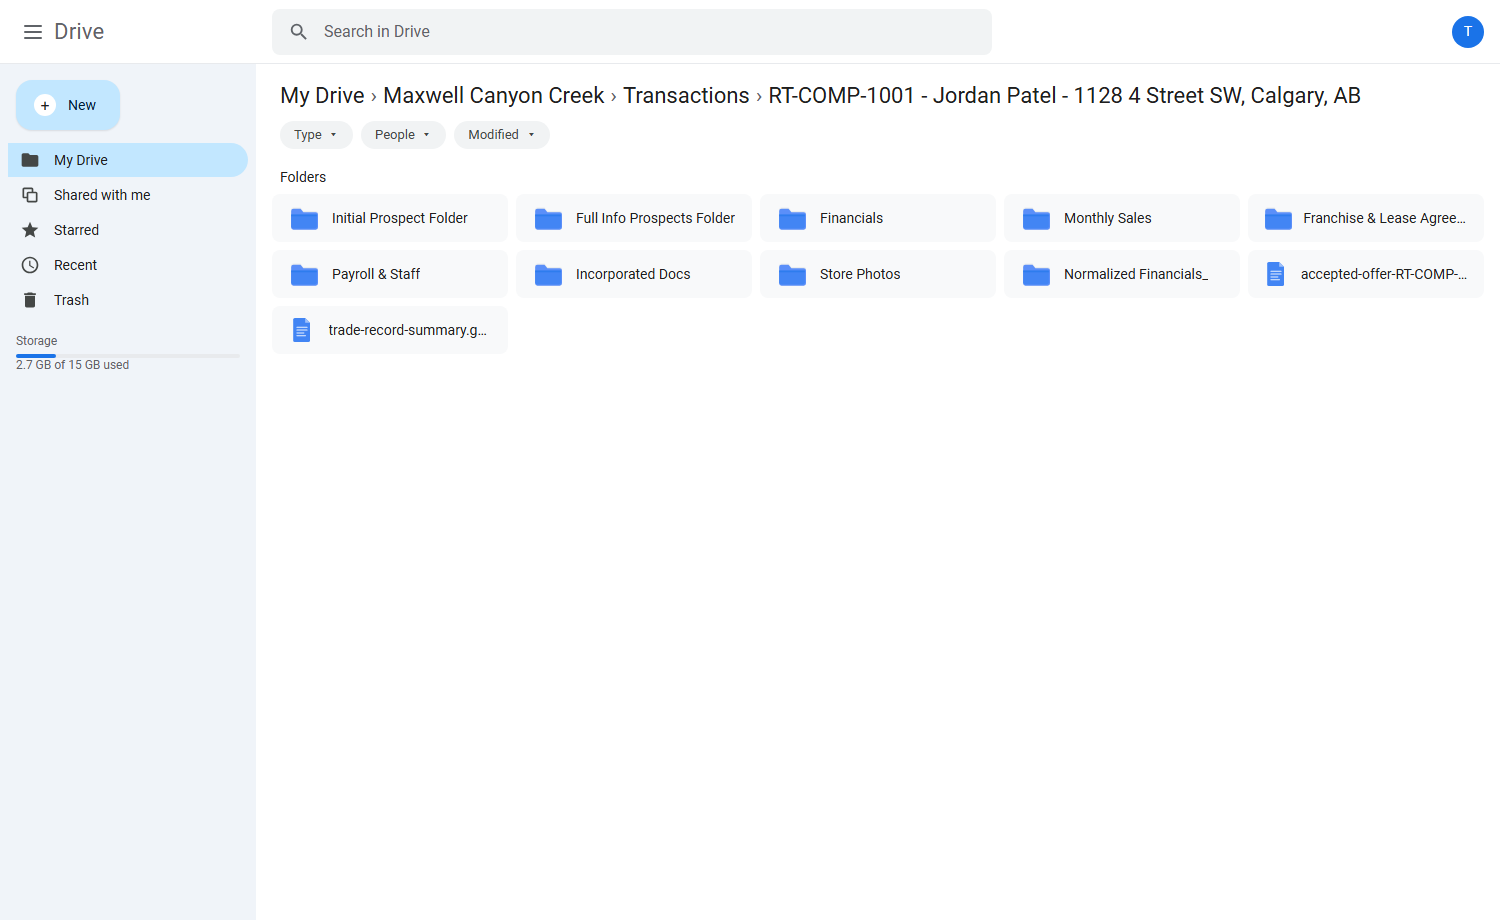
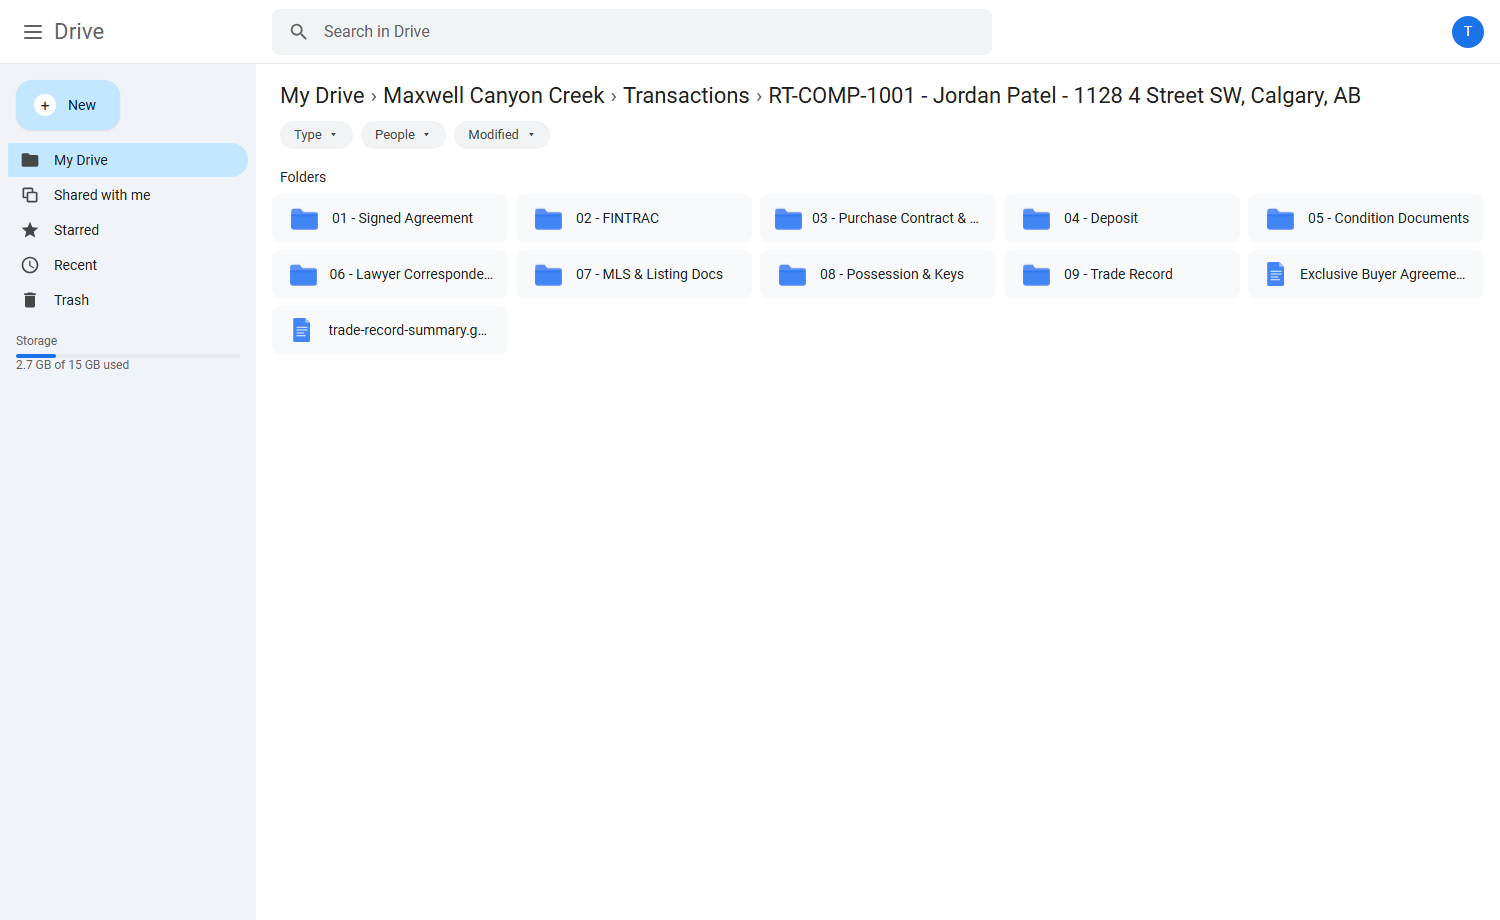
fix: realtor-flavor folder taxonomy, kill stale Google Forms defaults
Iteration 5 reviewer flagged three real problems:

1. folder-tree.png still showed brokerage taxonomy (Monthly Sales, Store
   Photos, Franchise & Lease Agreements, Initial Prospect Folder). Swapped
   to a realtor closing-folder taxonomy: 01 Signed Agreement, 02 FINTRAC,
   03 Purchase Contract & Amendments, 04 Deposit, 05 Condition Documents,
   06 Lawyer Correspondence, 07 MLS & Listing Docs, 08 Possession & Keys,
   09 Trade Record. Also swapped the file in the folder from
   accepted-offer.pdf to Exclusive Buyer Agreement - Jordan Patel.pdf.

2. site/index.html shipped a Google Forms URL in the stage-frame address
   bar on initial paint. Replaced with workflow.realtor/upload/RT-COMP-1001.

3. site/index.html shipped a stage caption mentioning Google Form intake
   on initial paint. Replaced with the DocuSign-upload caption.

diff --git a/site/index.html b/site/index.html
@@ -736,7 +736,7 @@
           <div class="stage-frame" id="stageFrame">
             <div class="browser-bar">
               <div class="dots"><span class="dot r"></span><span class="dot y"></span><span class="dot g"></span></div>
-              <div class="url" id="stageUrl">forms.google.com/u/0/d/RT-COMP-1001/intake</div>
+              <div class="url" id="stageUrl">workflow.realtor/upload/RT-COMP-1001</div>
             </div>
             <div class="img-wrap">
               <img id="stageImg" src="assets/fallback/generated/agreement-upload.png" alt="Step preview">
@@ -744,8 +744,8 @@
             <div class="zoom-hint">Click to enlarge</div>
           </div>
           <div class="stage-caption">
-            <p class="stage-caption-text" id="stageCaption">Realtor submits the deal details from a Google Form. The intake row is staged for the rest of the flow to read.</p>
-            <span class="stage-caption-meta" id="stageMeta">Step 01 / Google Forms</span>
+            <p class="stage-caption-text" id="stageCaption">Realtor uploads the signed DocuSign agreement (Exclusive Buyer or Seller). The system reads it and starts the flow.</p>
+            <span class="stage-caption-meta" id="stageMeta">Step 01 / DocuSign &rarr; Apps Script</span>
           </div>
         </div>
       </div>
